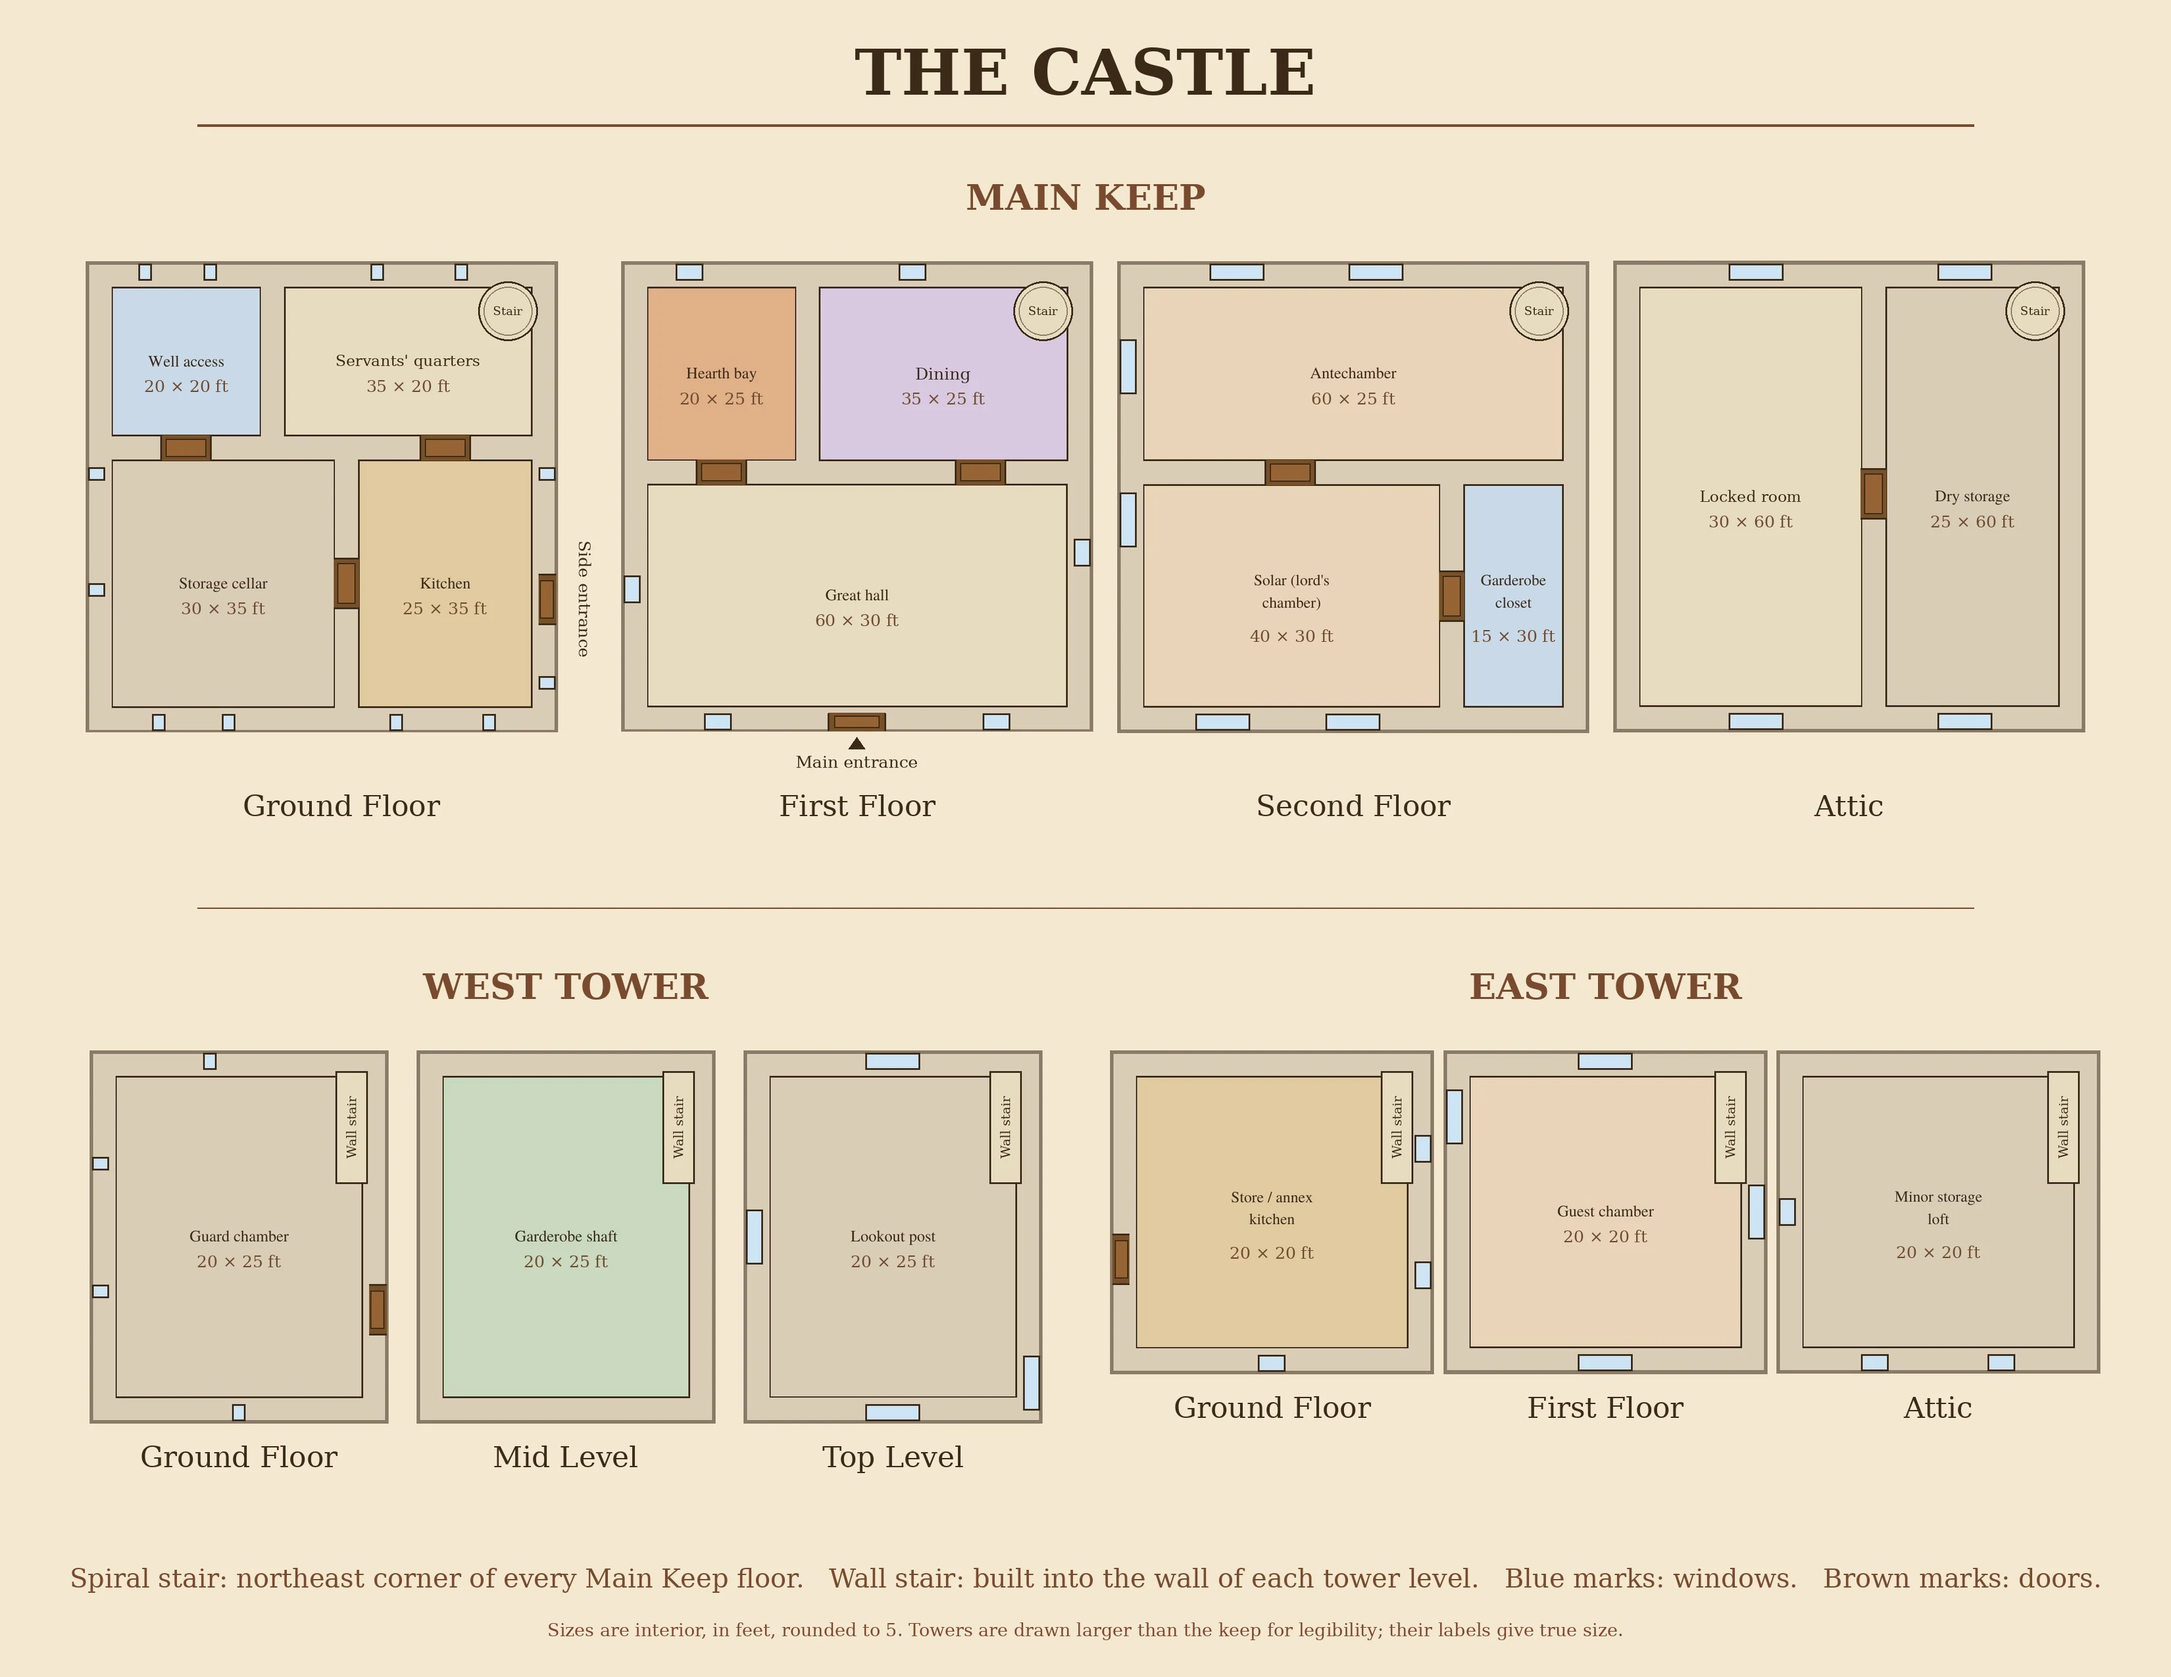
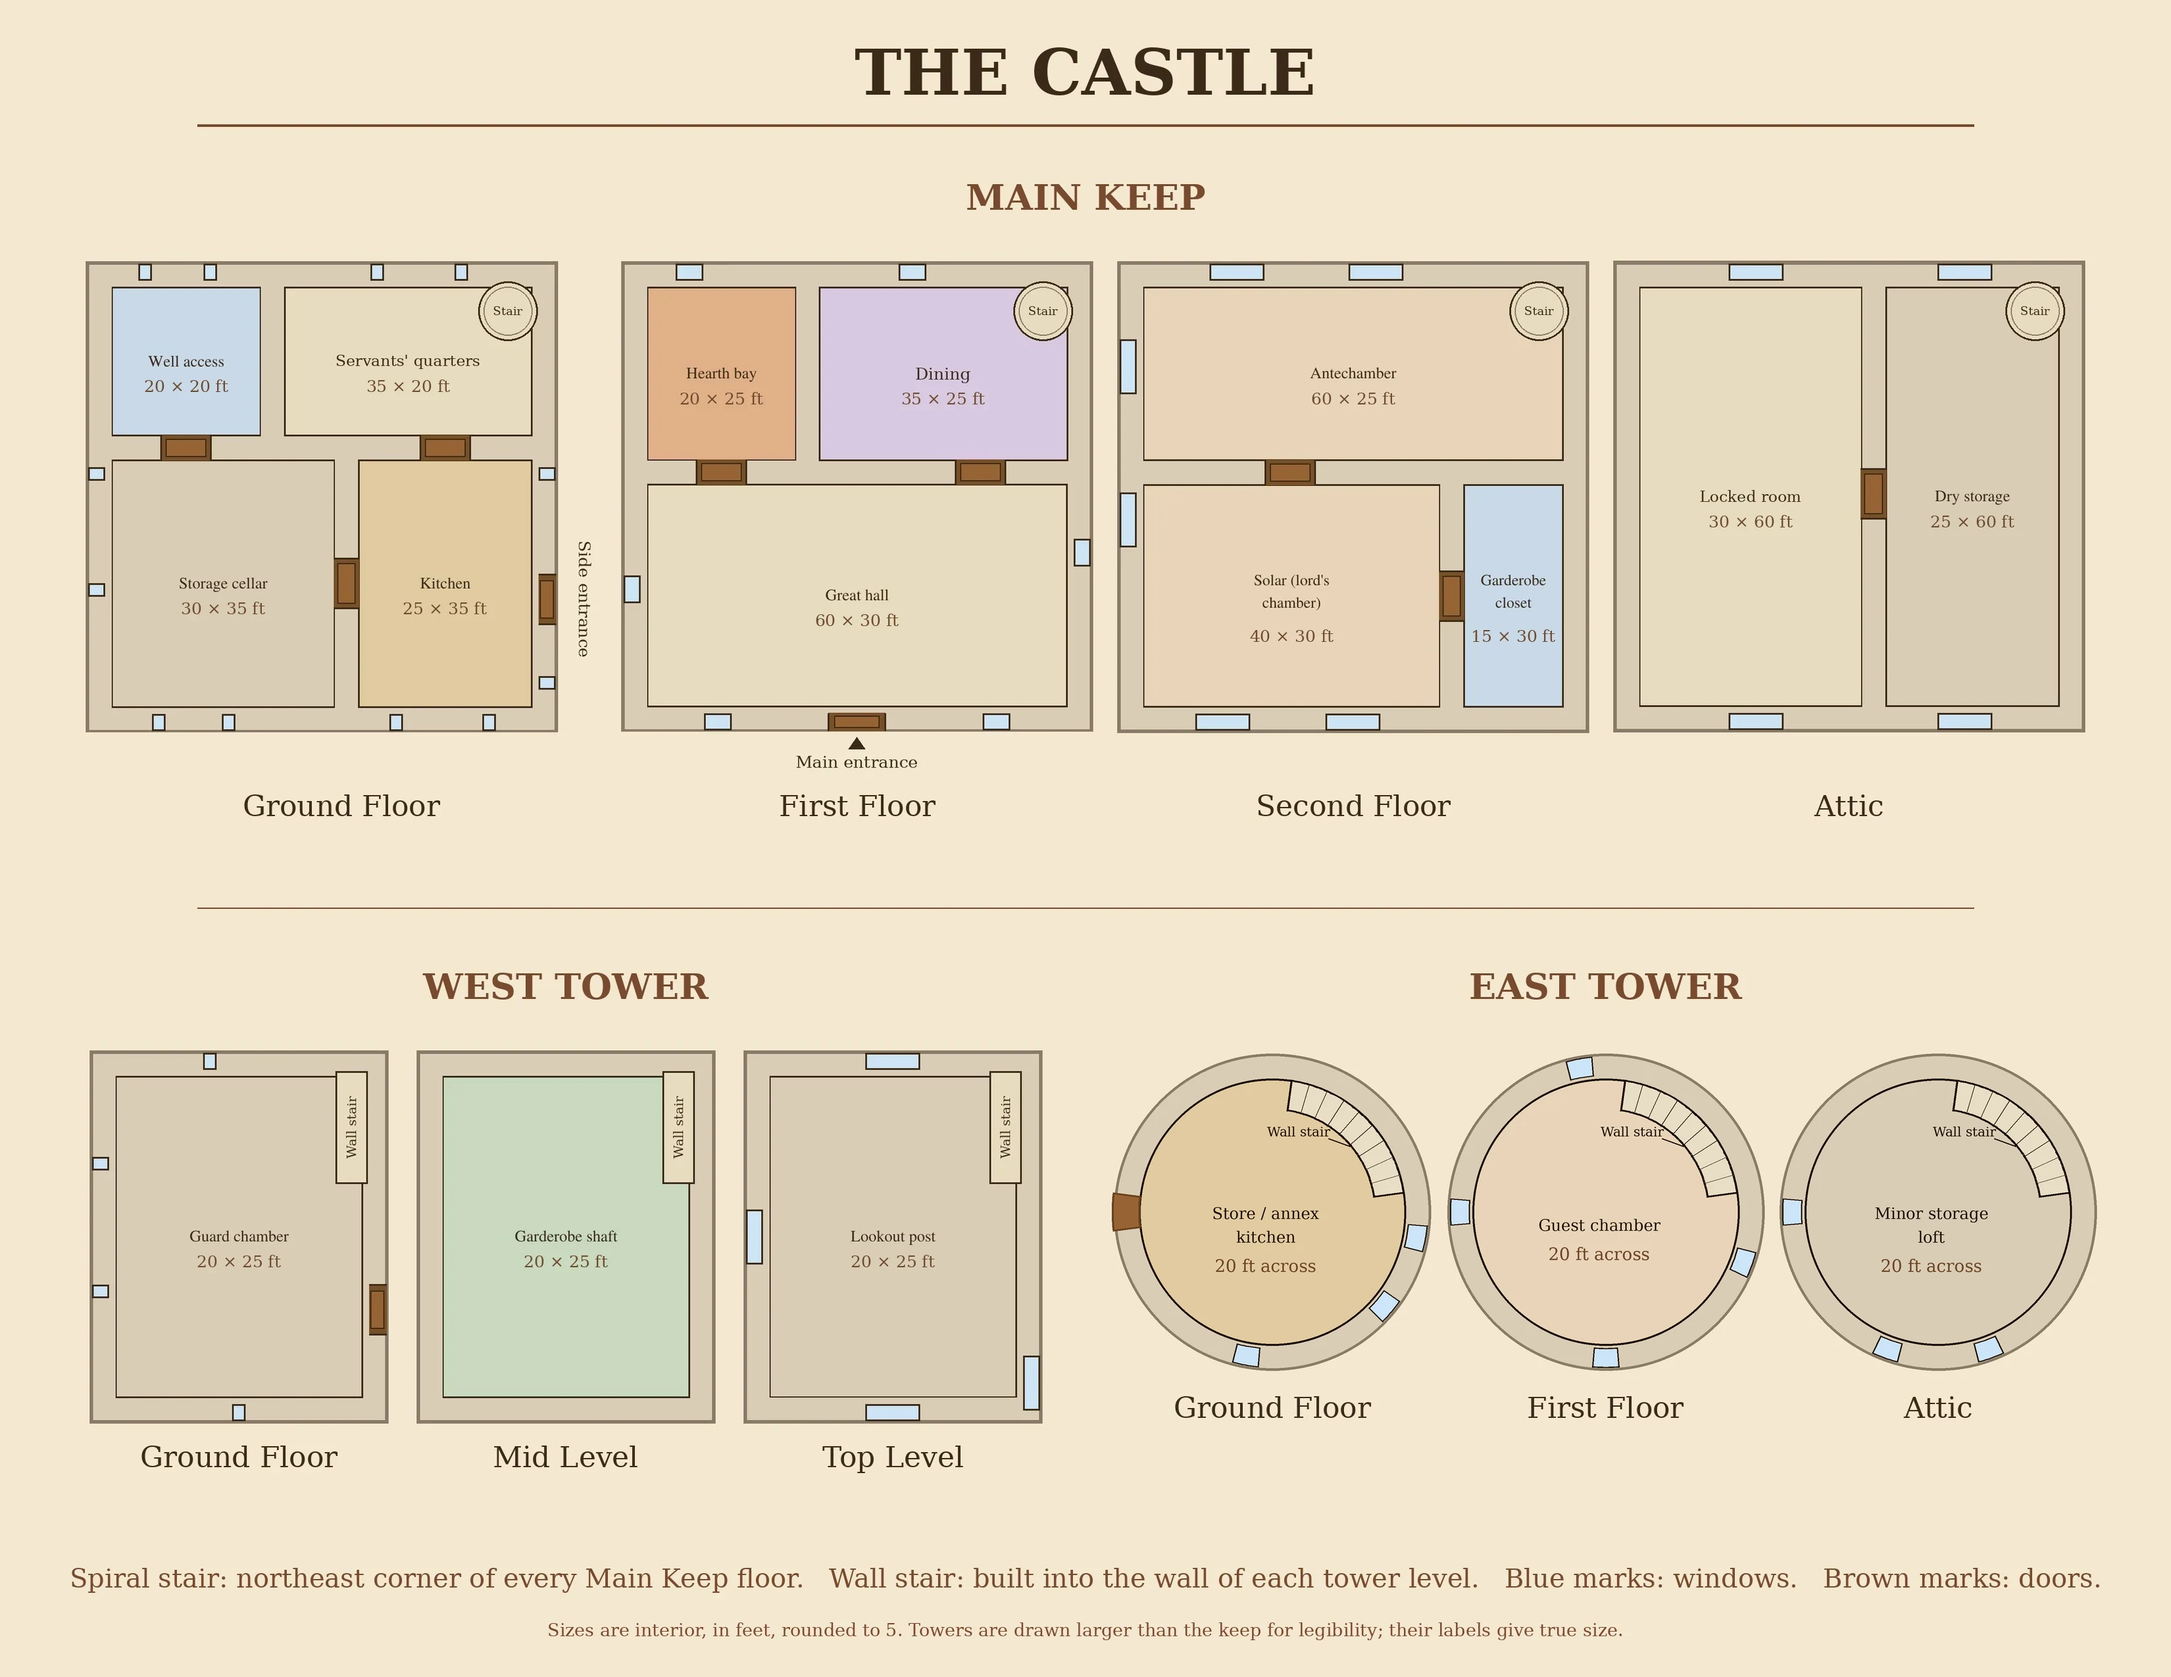
Castle entry: grounds map as page 1, floor plan (round East Tower) as page 2, photo as page 3; still hidden
Claude-Session: https://claude.ai/code/session_01EigvxP7BuA2p7UZRHH2KJ9

Changed region(s): [[0.4994, 0.6196, 0.9676, 0.8365], [0.8739, 0.7125, 0.9052, 0.7745]]

diff --git a/index.html b/index.html
@@ -270,12 +270,13 @@ const BOOKS = [
   { id: 'maps', title: 'Maps', color: 'var(--moss)', unit: ['map', 'maps'],
     blurb: 'Charts of Sigil and the places the party has been.',
     entries: [
-      { id: 'castle-plan', title: 'The Castle, Floor Plan', tag: 'Bastion', date: 'Nov 7, 2026', kind: 'image', revealed: false,
+      { id: 'castle-plan', title: 'The Castle', tag: 'Bastion', date: 'Nov 7, 2026', kind: 'image', revealed: false,
         pages: [
+          { src: 'img/castle-grounds.webp', w: 2800, h: 3200, alt: 'Overhead map of the castle grounds: keep, two towers, stable, shed, courtyard, gates, paved paths and the road with its stone bridge' },
           { src: 'img/castle-plan.webp', w: 3300, h: 2550, alt: 'Floor plans of the castle keep and its two towers, with rooms, stairs, doors, windows and sizes labeled' },
           { src: 'img/castle.webp', w: 1536, h: 1024, alt: 'Three views of the stone and timber castle on a hillside above a mountain valley' }
         ],
-        thumb: 'img/castle-plan-thumb.webp', w: 3300, h: 2550,
+        thumb: 'img/castle-plan-thumb.webp', w: 2800, h: 3200,
         alt: 'The castle',
         hint: 'Swipe left or right to turn the page. Pinch to zoom, drag to pan.' },
       { id: 'new-haven-map', title: 'New Haven', tag: 'Town', date: 'Nov 7, 2026', kind: 'image', revealed: false,
